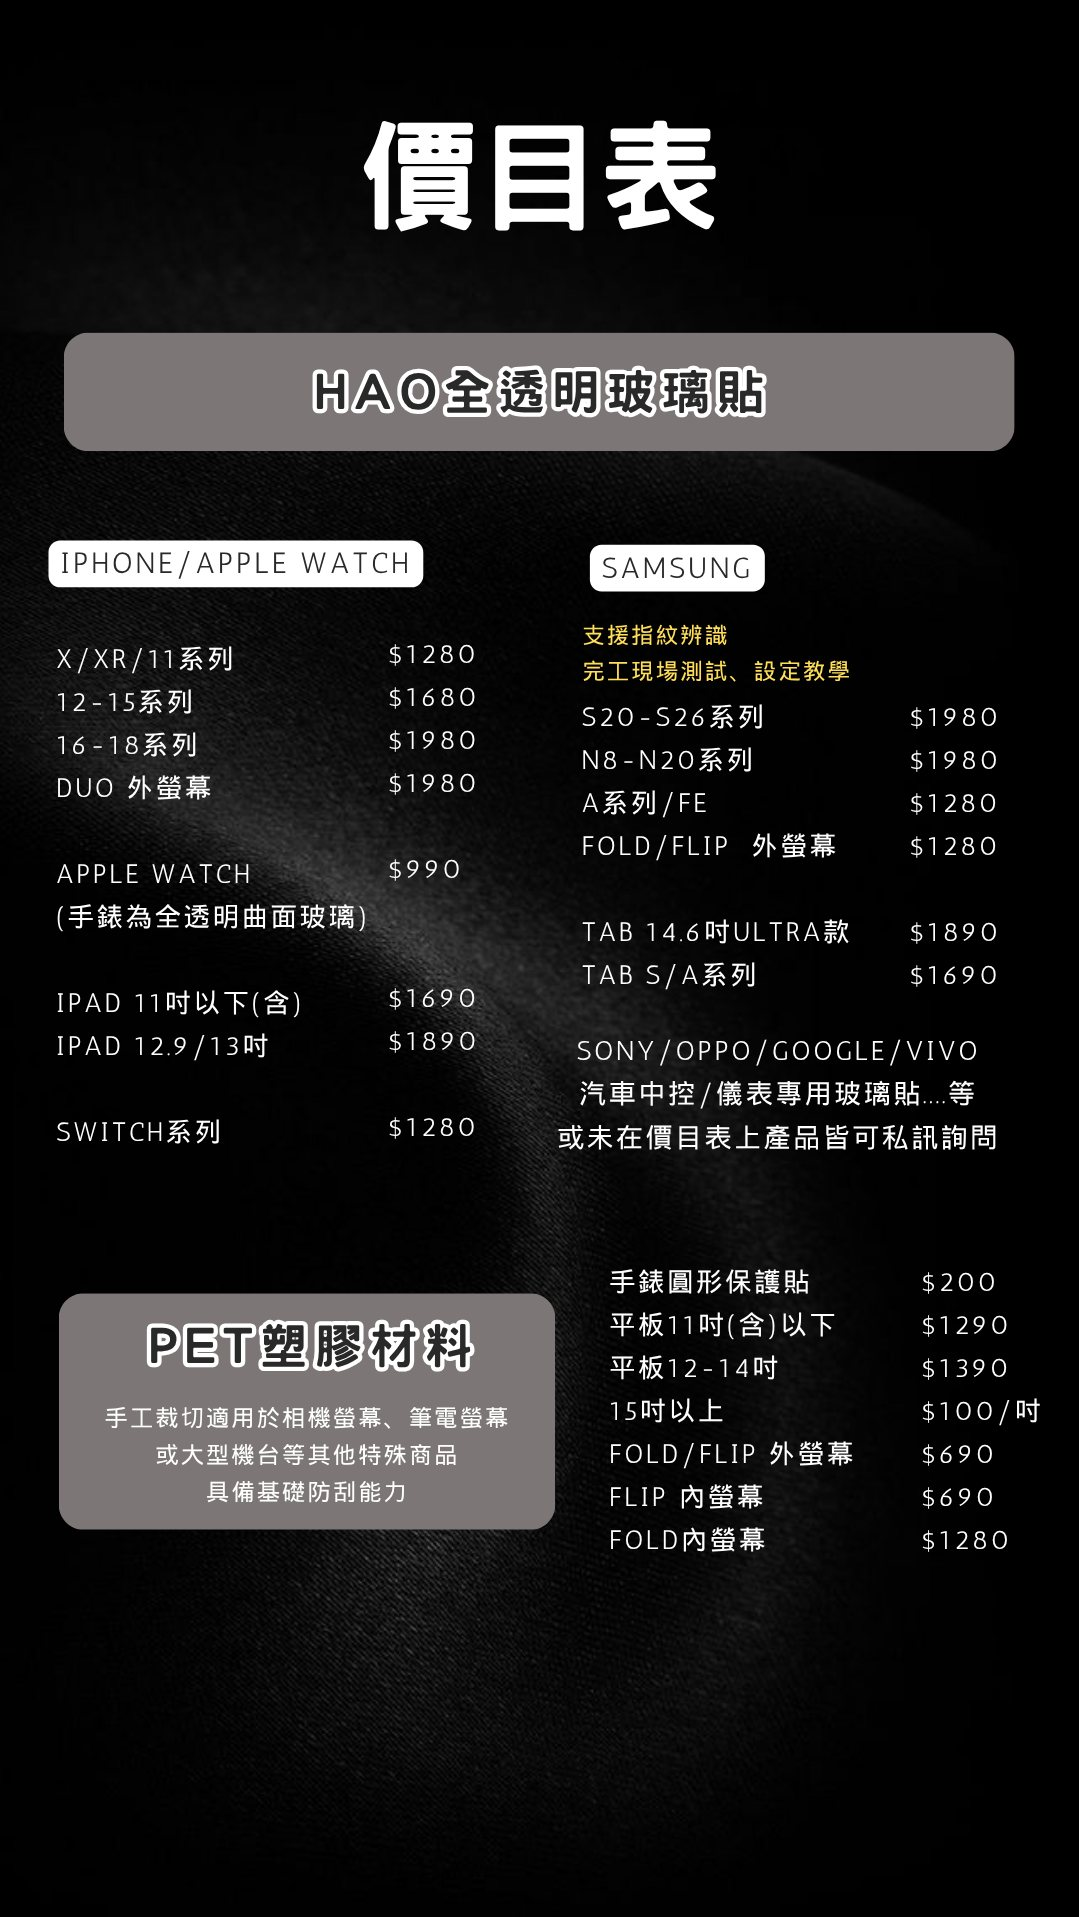
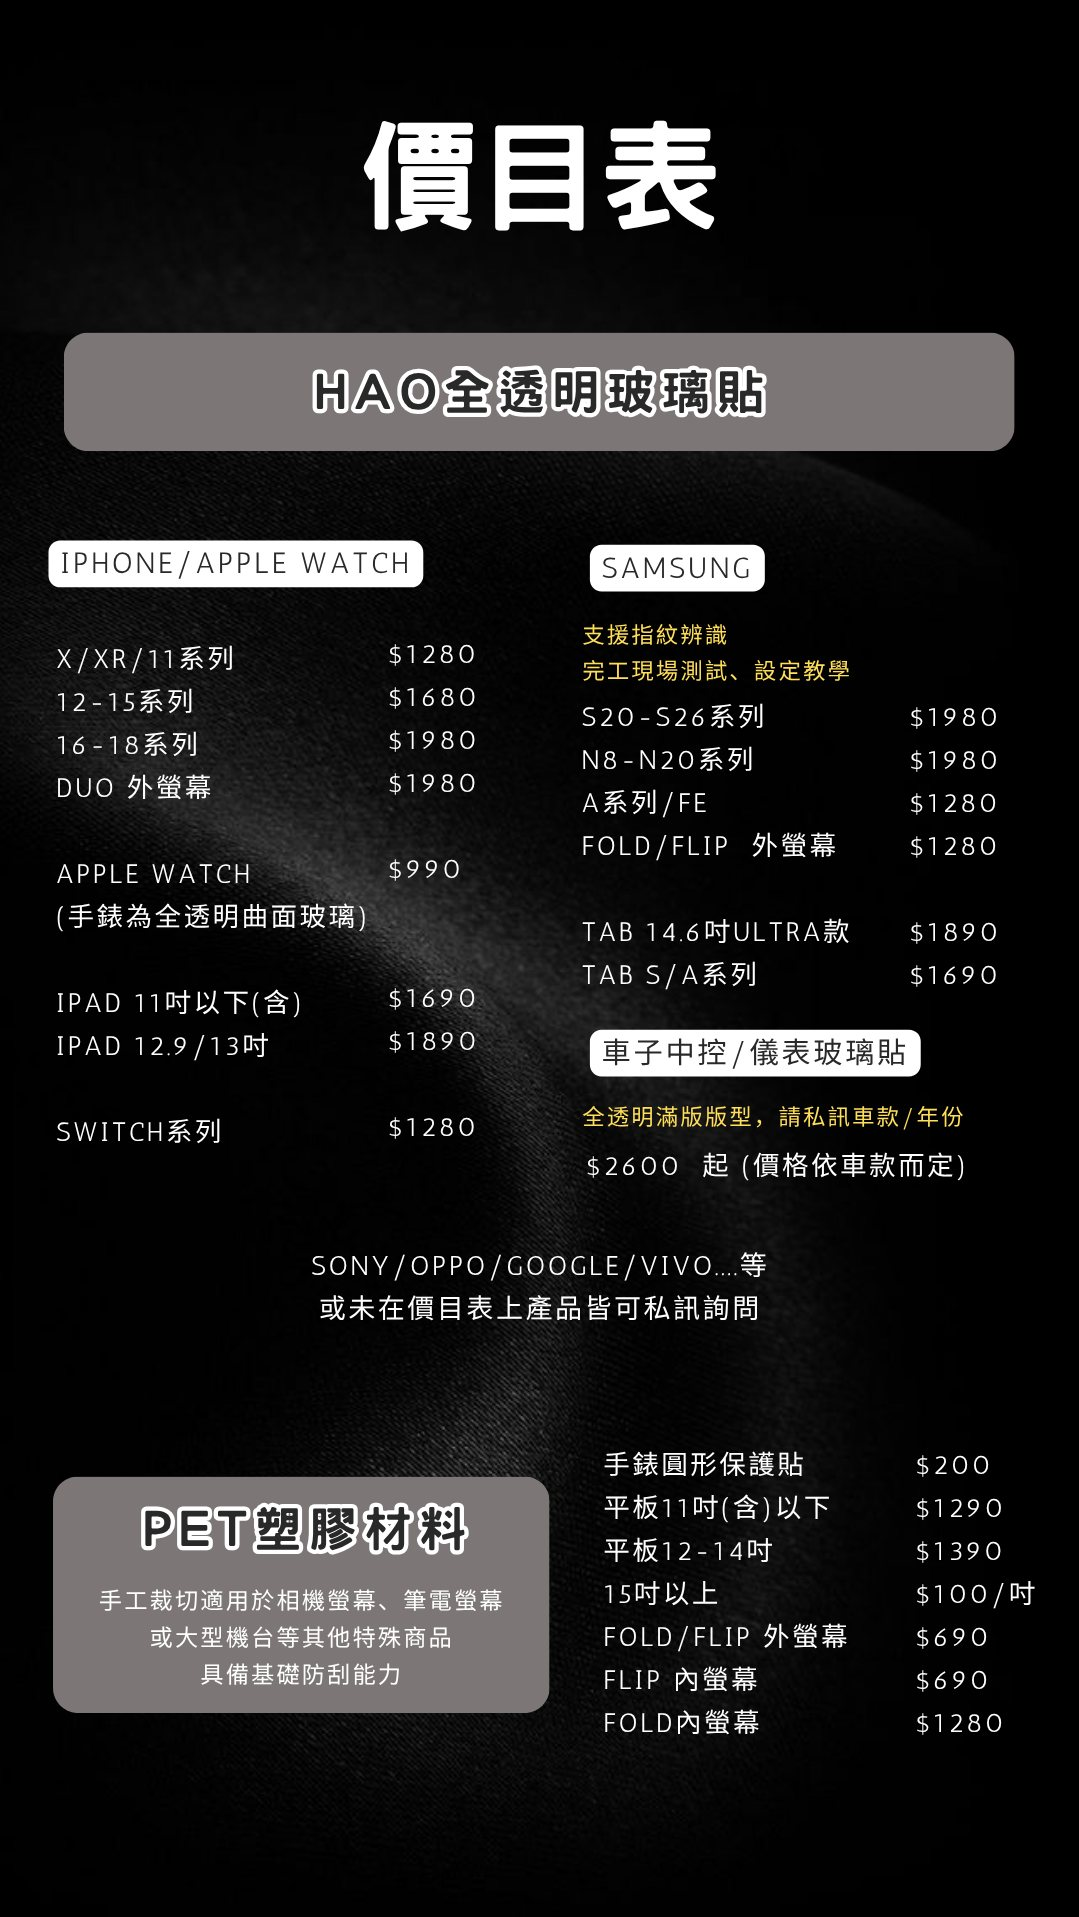
Add files via upload

diff --git a/hao_changhua.html b/hao_changhua.html
@@ -103,7 +103,7 @@ section.block{padding-block:72px;border-bottom:1px solid var(--line)}
 .tag-rose{color:var(--rose)}
 
 /* two main services */
-.duo{display:grid;grid-template-columns:repeat(3,1fr);gap:20px}
+.duo{display:grid;grid-template-columns:repeat(2,1fr);gap:16px}
 .svc{background:var(--panel);border:1px solid var(--line);border-radius:14px;padding:26px;display:flex;flex-direction:column;gap:12px;text-decoration:none}
 .svc .k{font-family:var(--f-mono);font-size:12px;letter-spacing:.14em;color:var(--muted)}
 .svc h3{font-size:24px}
@@ -602,6 +602,11 @@ body{background:
         <span class="k">配件</span>
         <h3>選品周邊配件</h3>
         <p>手機殼、掛繩、行動電源等周邊配件，提供眾多品牌可選擇、訂購。</p>
+      </div>
+      <div class="svc bracket">
+        <span class="k">汽車</span>
+        <h3>汽車螢幕玻璃貼</h3>
+        <p>汽車中控、儀表螢幕專用玻璃貼，車款型號歡迎私訊詢問。</p>
       </div>
     </div>
     <div class="brands" id="brands">
@@ -1115,6 +1120,18 @@ body{background:
       <figure class="work">
         <button type="button" class="zoom" data-src="work-4.jpg" aria-label="放大查看：琉光晶雕 Peace 小雛菊、晶雕雷射小雛菊底座"><img src="work-4.jpg" alt="成品：琉光晶雕 Peace 小雛菊、晶雕雷射小雛菊底座" loading="lazy" width="1000" height="1333"></button>
         <figcaption><span>琉光晶雕 Peace 小雛菊</span><span>晶雕雷射小雛菊底座</span></figcaption>
+      </figure>
+      <figure class="work">
+        <button type="button" class="zoom" data-src="car-1.jpg" aria-label="放大查看：汽車螢幕玻璃貼、中控・儀表一體曲面螢幕"><img src="car-1.jpg" alt="成品：汽車螢幕玻璃貼、中控・儀表一體曲面螢幕" loading="lazy" width="787" height="1400"></button>
+        <figcaption><span>汽車螢幕玻璃貼</span><span>中控・儀表一體曲面螢幕</span></figcaption>
+      </figure>
+      <figure class="work">
+        <button type="button" class="zoom" data-src="car-2.jpg" aria-label="放大查看：汽車螢幕玻璃貼、中控螢幕"><img src="car-2.jpg" alt="成品：汽車螢幕玻璃貼、中控螢幕" loading="lazy" width="787" height="1400"></button>
+        <figcaption><span>汽車螢幕玻璃貼</span><span>中控螢幕</span></figcaption>
+      </figure>
+      <figure class="work">
+        <button type="button" class="zoom" data-src="car-3.jpg" aria-label="放大查看：汽車螢幕玻璃貼、中控・儀表一體螢幕"><img src="car-3.jpg" alt="成品：汽車螢幕玻璃貼、中控・儀表一體螢幕" loading="lazy" width="1000" height="1333"></button>
+        <figcaption><span>汽車螢幕玻璃貼</span><span>中控・儀表一體螢幕</span></figcaption>
       </figure>
       <figure class="work">
         <div class="vid"><video src="watch-wrap.mp4" muted loop playsinline autoplay preload="metadata" aria-label="Apple Watch 霧面機身包膜影片"></video></div>
